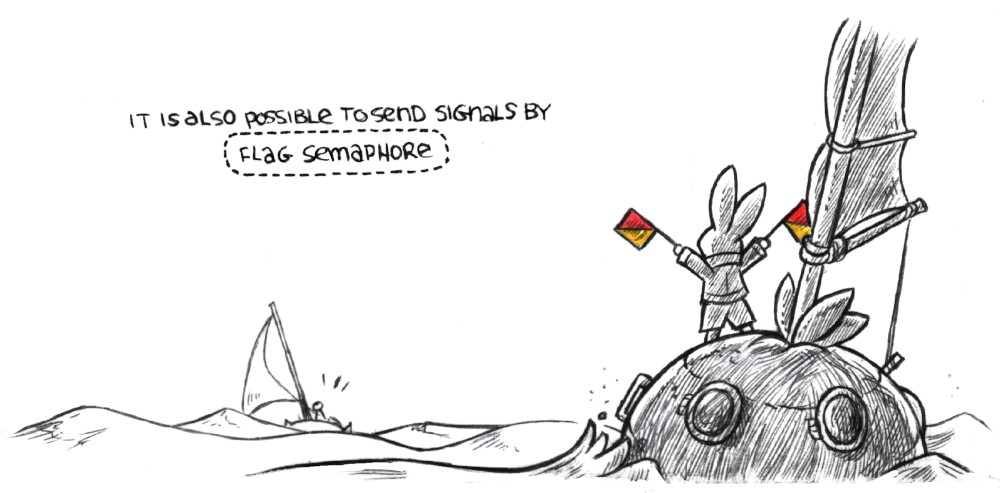
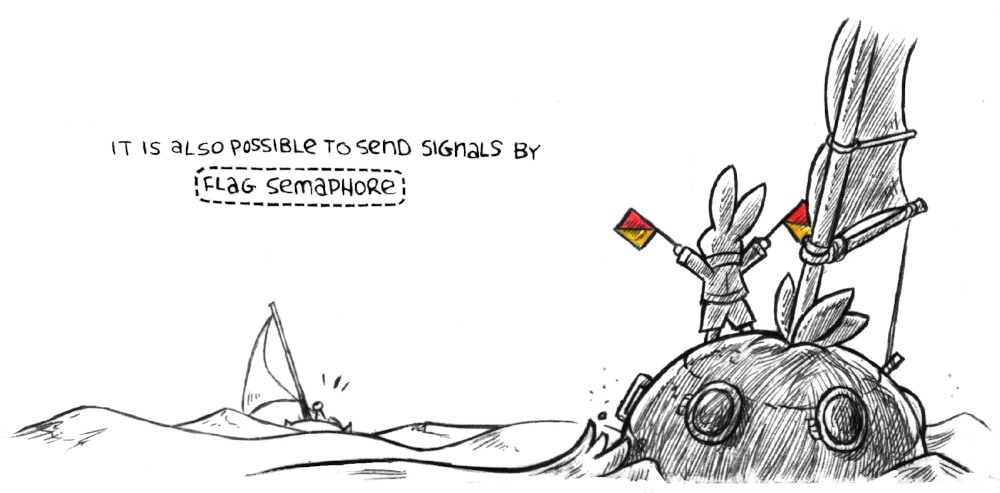
*

Changed region(s): [[0.124, 0.213, 0.558, 0.426]]

diff --git a/site/flags_maritime.html b/site/flags_maritime.html
@@ -60,7 +60,7 @@
 	<div id='wrap'>
 		<img src='../media/content/2024_handflag_intro.jpg' alt='a rabbit at sea aboard a turnip-shaped boat waving a pair of oscar hand flags to initiate a conversation with another sailor by semaphore flags' loading='lazy'>
 		<p class='noprint'>It is also possible to send signals by flag semaphore.</p>
-		<a style='width: 25%;height: 13%;top: 25%;left: 21%' title="Hand flag semaphore page" href="flags.html"><span>Flag Semaphore</span></a>
+		<a style='width: 25%;height: 13%;top: 32%;left: 19%;' title="Hand flag semaphore page" href="flags.html"><span>Flag Semaphore</span></a>
 	</div>
 <h2>Zine</h2>
 		<div id='wrap'>
